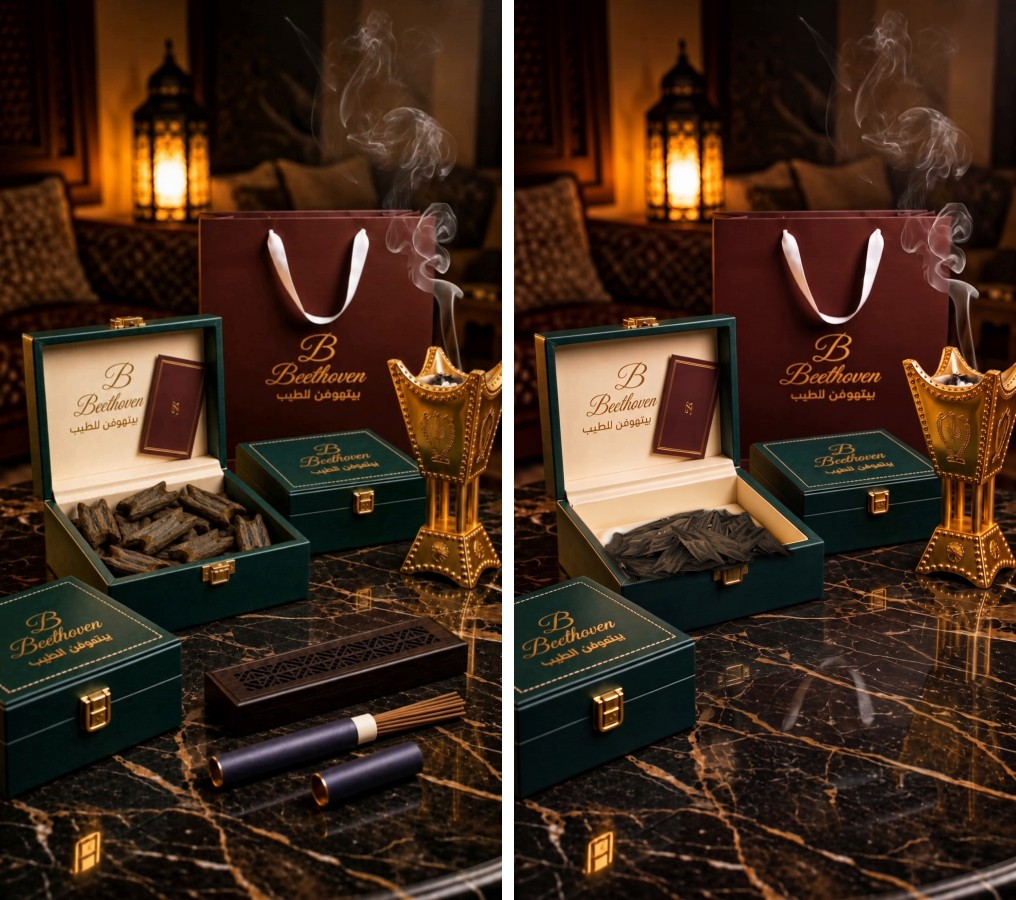
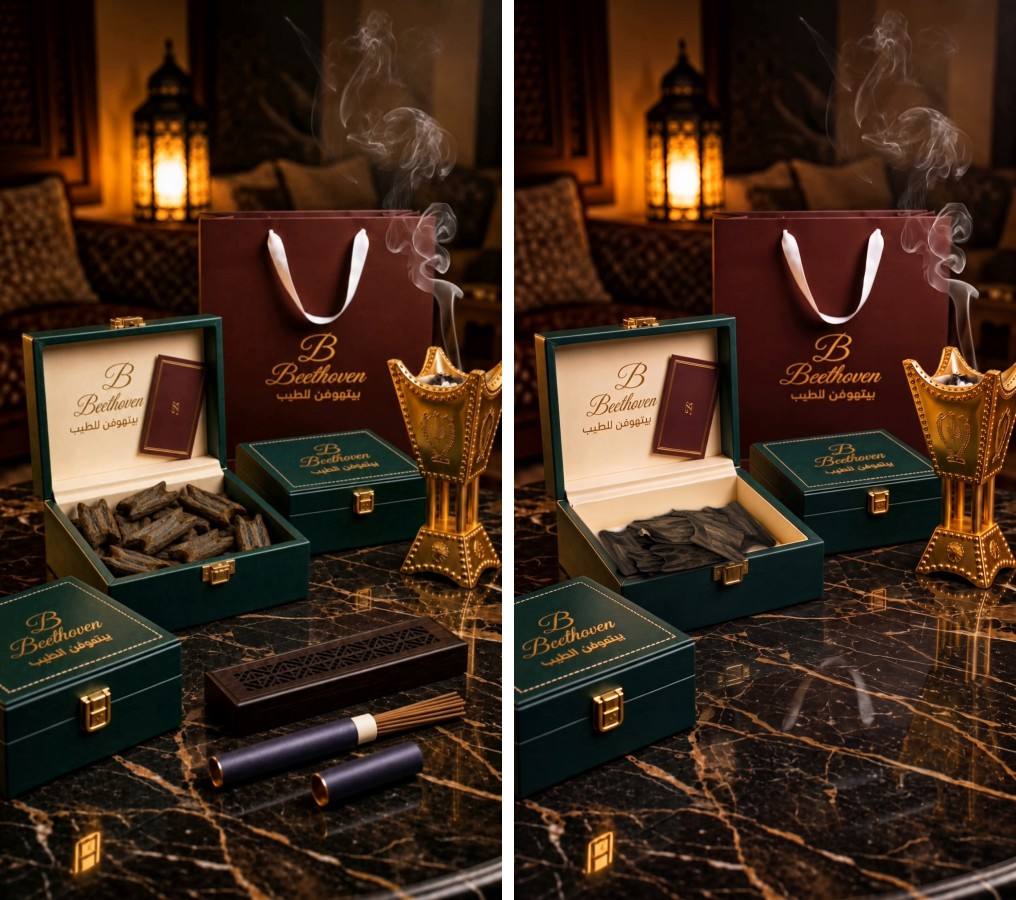
Ad 2: pieces confined to the detected lining, visible gaps, fuller boxes; skill updated
Claude-Session: https://claude.ai/code/session_01TQdgL8psWQ5B4XyTxv2k9v

Changed region(s): [[0.5797, 0.56, 0.7933, 0.6533]]

diff --git a/.claude/skills/product-ad-fidelity/scripts/fill_container.py b/.claude/skills/product-ad-fidelity/scripts/fill_container.py
@@ -50,7 +50,14 @@ if cfg.get('fit') == 'floor':   # pieces lie on the floor, may lean part-way up 
     k = np.array(cfg.get('wall_lean', [0.15, 0.15, 0.45, 0.45]), np.float32)[:, None]   # BL,BR,FR,FL: fraction toward rim
     fp = flo + (rim - flo) * k
     area = np.zeros((H, W), np.uint8); cv2.fillPoly(area, [fp.astype(np.int32)], 1); area &= open_
-fitm = cv2.erode(area, np.ones((9, 9), np.uint8)).astype(bool)          # every piece must lie fully inside
+if cfg.get('fit_lining', False):   # exact inside of the box = the visible cream lining of the EMPTY plate
+    lab = cv2.cvtColor(plate.astype(np.uint8), cv2.COLOR_BGR2LAB).astype(np.int16)
+    lin = ((lab[..., 0] > cfg.get('lining_L', 90)) & (np.abs(lab[..., 1] - 128) < 18) & (lab[..., 2] > 126) & (lab[..., 2] < 185) & (lab[..., 2] - lab[..., 1] > 2)).astype(np.uint8)
+    lin = cv2.morphologyEx(lin, cv2.MORPH_CLOSE, np.ones((15, 15), np.uint8)) & open_
+    n_, lb_, st_, _ = cv2.connectedComponentsWithStats(lin); lin = (lb_ == 1 + np.argmax(st_[1:, 4])).astype(np.uint8)
+    cn_, _ = cv2.findContours(lin, cv2.RETR_EXTERNAL, cv2.CHAIN_APPROX_NONE); lin = np.zeros_like(lin); cv2.drawContours(lin, cn_, -1, 1, -1)
+    area &= lin; cv2.imwrite(os.path.splitext(cfg['out'])[0] + '_fitarea.png', area * 255)
+fitm = cv2.erode(area, np.ones((cfg.get('edge_margin', 9),) * 2, np.uint8)).astype(bool)          # every piece must lie fully inside
 inner = cv2.erode(area, cv2.getStructuringElement(cv2.MORPH_ELLIPSE, (int(LEN * 0.45) | 1,) * 2)).astype(bool)
 sc = LEN / 195.0; SHD = (int(-8 * sc), int(11 * sc)); SB = 10 * sc
 cv = Canvas(plate); last = -1
@@ -66,10 +73,10 @@ def try_place(x, y, gain, lift, tries=14, jit=0.2):
     global last
     for _ in range(tries):
         k = (last + rng.randrange(1, len(pool))) % len(pool); _, rgb, a = pool[k]
-        rr, aa = xform(grade(rgb, gain * rng.uniform(0.95, 1.05)), a, LEN * rng.uniform(0.85, 1.05), rng.uniform(0, 360), rng.random() < 0.5, EL, SQ)
+        rr, aa = xform(grade(rgb, gain * rng.uniform(*cfg.get('tone_var', [0.95, 1.05]))), a, LEN * rng.uniform(0.85, 1.05), rng.uniform(0, 360), rng.random() < 0.5, EL, SQ)
         cx = x + rng.uniform(-LEN * jit, LEN * jit); cy = y + rng.uniform(-LEN * jit, LEN * jit)
         if fits(aa, cx, cy):
-            last = k; return cv.place(rr, aa, cx, cy, shadow=(int(SHD[0] * lift), int(SHD[1] * lift)), sblur=SB * lift)
+            last = k; return cv.place(rr, aa, cx, cy, shadow=(int(SHD[0] * lift), int(SHD[1] * lift)), sblur=SB * lift, contact=cfg.get('contact', 0.55), line=cfg.get('line', 0.35), csig=cfg.get('csig', 2.0))
     return None
 
 
@@ -97,7 +104,7 @@ for frac, gain, lift in ((cfg.get('l2', 0.30), 1.02, 1.4), (cfg.get('l3', 0.10),
 # gaps enclosed by wood read as shadow, open edges stay as the box floor
 enc = cv2.morphologyEx((cv.wood > 0.5).astype(np.uint8), cv2.MORPH_CLOSE, cv2.getStructuringElement(cv2.MORPH_ELLIPSE, (int(LEN * 0.35) | 1,) * 2)).astype(bool)
 g = cv2.GaussianBlur((enc & (cv.wood < 0.5) & (open_ > 0)).astype(np.float32), (0, 0), 3); cv.img *= (1 - 0.6 * g)[..., None]
-clip = cv2.GaussianBlur(open_.astype(np.float32), (3, 3), 0); handm = None
+clip = cv2.GaussianBlur((cv2.dilate(area, np.ones((7, 7), np.uint8)) if cfg.get('fit_lining') else open_).astype(np.float32), (3, 3), 0); handm = None
 if 'held' in cfg:
     hc = cfg['held']; _, rgb, a = pool[names.index(hc['piece'])] if hc.get('piece') in names else pool[0]
     rr, aa = xform(grade(rgb, 1.0), a, hc['len'], hc['ang'], hc.get('flip', False), EL, 1.0)
